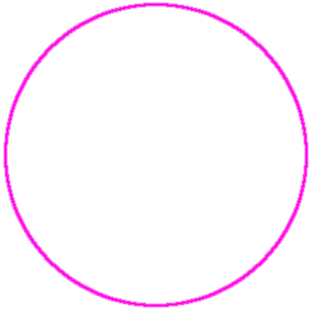
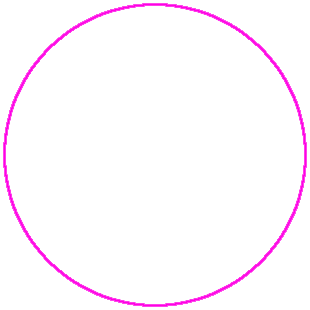
complete range pointer for player

diff --git a/public_html/js/modules/player.js b/public_html/js/modules/player.js
@@ -8,7 +8,7 @@ window.player = {
     create: function(type) {
         switch (type) {
             default:
-                var result = Crafty.e('2D, Canvas, Collision, SpriteAnimation, player, KeyBoard, PlayerControls, PlayerAnimate, PlayerSounds, PlayerFire, PlayerRangePointer, {0}, {1}'.format(PLAYER_ABS, type))
+                var result = Crafty.e('2D, Canvas, Collision, SpriteAnimation, player, KeyBoard, PlayerControls, PlayerAnimate, PlayerSounds, PlayerFire, {0}, {1}'.format(PLAYER_ABS, type))
                         .attr({w: PLAYER_WIDTH, h: PLAYER_HEIGHT, x: 0, y: 0,  z: 1});
                 return result;
         }
@@ -41,28 +41,28 @@ Crafty.c('PlayerControls', {
                 if(!this.isPlaying(WALK_RIGHT))
                     Crafty.trigger(PLAYER_DIRECTION, RIGHT_DIRECTION);
                 this.repairPosition(this.x, this.y, this.lastKey);
-                this.redrawRangePointer(this.x, this.y);
+                this.rangePointer.redrawRangePointer(this.x, this.y);
             }
             else if (this.lastKey === LEFT_DIRECTION) {
                 this.x -= this.speedPX;
                 if(!this.isPlaying(WALK_LEFT))
                     Crafty.trigger(PLAYER_DIRECTION, LEFT_DIRECTION);
                 this.repairPosition(this.x, this.y, this.lastKey);
-                this.redrawRangePointer(this.x, this.y);
+                this.rangePointer.redrawRangePointer(this.x, this.y);
             }
             else if (this.lastKey === UP_DIRECTION) {
                 this.y -= this.speedPX;
                 if(!this.isPlaying(WALK_UP))
                     Crafty.trigger(PLAYER_DIRECTION, UP_DIRECTION);
                 this.repairPosition(this.x, this.y, this.lastKey);
-                this.redrawRangePointer(this.x, this.y);
+                this.rangePointer.redrawRangePointer(this.x, this.y);
             }
             else if (this.lastKey === DOWN_DIRECTION) {
                 this.y += this.speedPX;
                 if(!this.isPlaying(WALK_DOWN))
                     Crafty.trigger(PLAYER_DIRECTION, DOWN_DIRECTION);
                 this.repairPosition(this.x, this.y, this.lastKey);
-                this.redrawRangePointer(this.x, this.y);
+                this.rangePointer.redrawRangePointer(this.x, this.y);
             }
             else if (this.lastKey === NO_DIRECTION) {
                 if(this.isPlaying()) {
@@ -140,7 +140,7 @@ Crafty.c('PlayerFire', {
     //shot damage
     shotDamage: 1,
     //shot range
-    shotRange: 2,
+    shotRange: 5,
     
     //init method
     init: function() {
@@ -244,20 +244,26 @@ Crafty.c('PlayerRangePointer', {
     //visible variable
     visible: true,
     //transparency: 0.0 - 1.0
-    transparency: 0.9,
+    transparency: 0.4,
     //pointer diameter
     diameter: 0,
     //init method
     init: function() {
-        this.diameter = 49 * this.shotRange;
+        this.w = this.h= this.diameter;
+        this.alpha = this.transparency;
         this.z = 1;
-        this.requires('Image').image('images/range_circle.png');
+        this.requires('playerRange');
     },
     //redraw range pointer method
     redrawRangePointer: function(x, y) {
-        this.w = this.h= this.diameter;
-        this.x = x;
-        this.y = y;
+        this.x = x - this.diameter/2 + PLAYER_WIDTH/2;
+        this.y = y - this.diameter/2 + PLAYER_HEIGHT/2;
+    },
+    
+    //set size
+    setDiameter: function(dia) {
+       this.diameter = 32 * dia;
+       this.w = this.h= this.diameter;
     }
 });
 
@@ -297,7 +303,10 @@ Crafty.c(PLAYER_ABS, {
     level: 0,
     //init method
     init: function() {
-
+        //add range pointer
+        this.rangePointer = Crafty.e("2D, Canvas, PlayerRangePointer");
+        this.rangePointer.setDiameter(this.shotRange);
+        this.rangePointer.redrawRangePointer(0,0);
     },
     //repair position after change x or y (collision detect, etc.)
     repairPosition: function(fromX, fromY, move) {

diff --git a/public_html/js/scenes/loading.js b/public_html/js/scenes/loading.js
@@ -42,6 +42,10 @@ Crafty.scene (SCENE_LOADING, function () {
  ***********
  */
 
+Crafty.sprite (310, 'images/range_circle.png', {
+    playerRange: [0, 0]
+});
+
 Crafty.sprite (32, 'images/dungeon.png', {
     path: [0, 1],
     wall: [17, 0],
